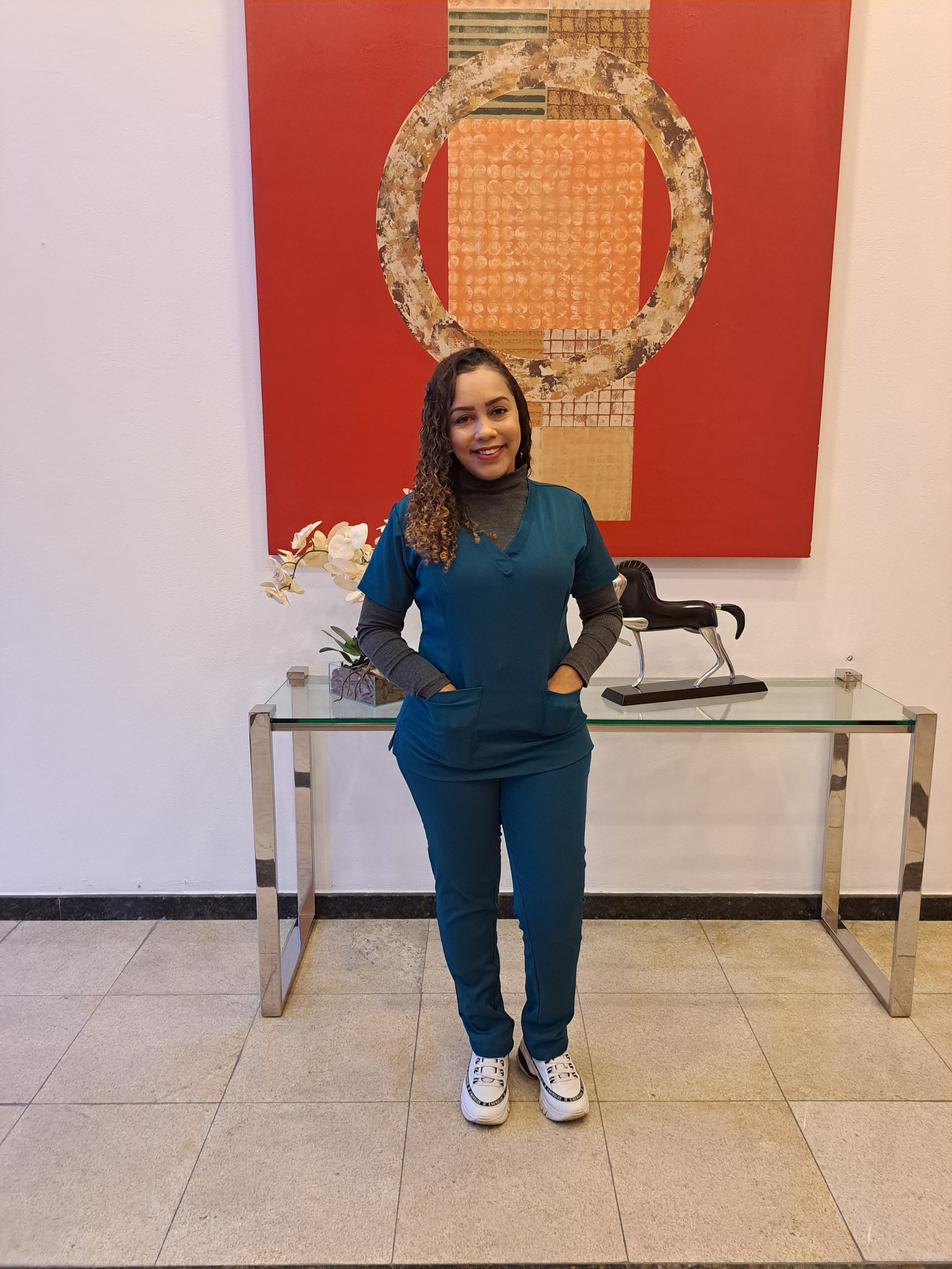
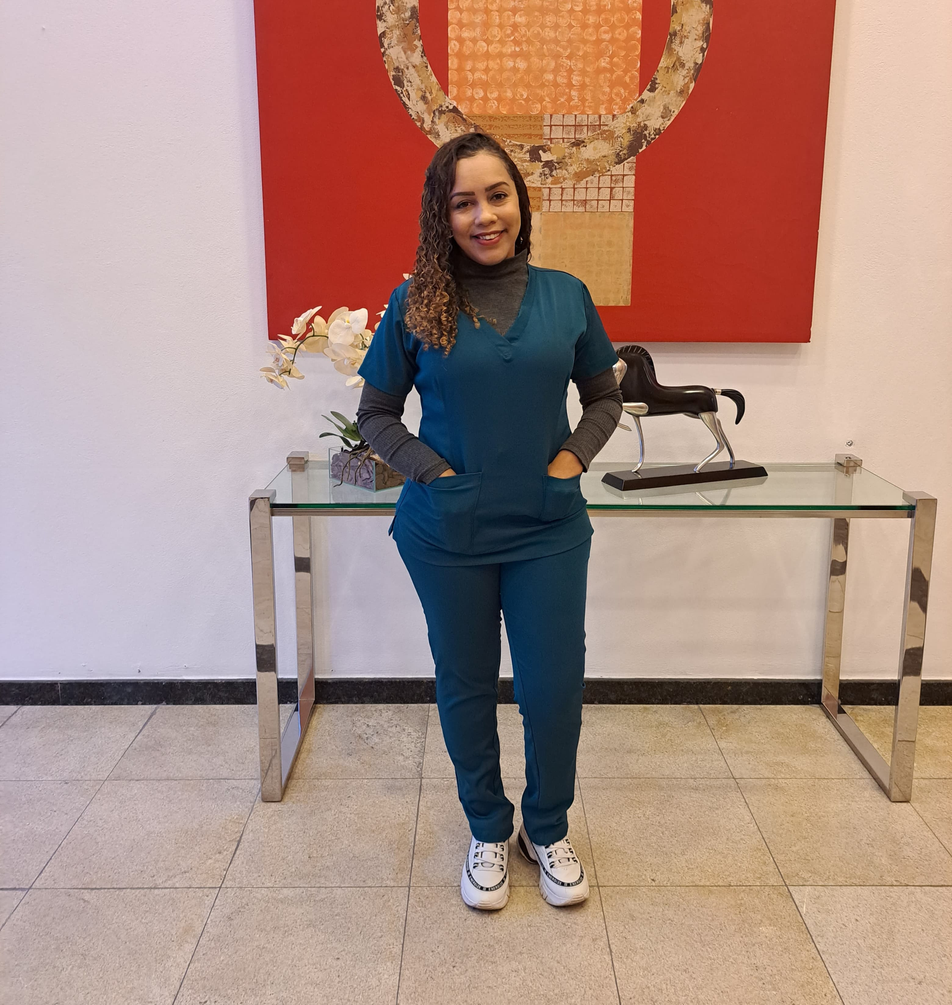
Wip

diff --git a/src/layouts/Default.vue b/src/layouts/Default.vue
@@ -60,11 +60,14 @@
     <!-- Whatsapp -->
     <a href="https://wa.me/5521989045832" target="_blank"
       class="btn btn-whatsapp position-fixed rounded-circle d-flex align-items-center justify-content-center shadow"
-      style="width: 64px; height: 64px; bottom: 16px; right: 16px; z-index: 100;">
-      <svg xmlns="http://www.w3.org/2000/svg" viewBox="0 0 512 512" class="" style="height: 32px; fill: currentColor;">
-        <path
-          d="m435.32 74.4c-47.886-48-111.66-74.4-179.43-74.4-139.89 0-253.72 113.83-253.72 253.71 0 44.686 11.657 88.343 33.83 126.86l-36.001 131.43 134.52-35.314c37.028 20.229 78.742 30.857 121.26 30.857h0.114c139.77 0 256.11-113.83 256.11-253.71 0-67.772-28.8-131.43-76.685-179.43zm-179.43 390.4c-37.943 0-75.086-10.171-107.43-29.371l-7.657-4.572-79.772 20.914 21.258-77.828-5.029-8c-21.142-33.6-32.229-72.343-32.229-112.23 0-116.23 94.629-210.86 210.97-210.86 56.343 0 109.26 21.943 149.03 61.829 39.771 39.885 64.228 92.8 64.114 149.14 0 116.34-97.029 210.97-213.26 210.97zm115.66-157.94c-6.285-3.199-37.486-18.514-43.315-20.571-5.828-2.172-10.057-3.2-14.286 3.2-4.228 6.4-16.342 20.571-20.114 24.914-3.656 4.229-7.428 4.8-13.714 1.6-37.257-18.628-61.714-33.257-86.285-75.429-6.515-11.199 6.514-10.4 18.628-34.628 2.057-4.229 1.028-7.885-0.571-11.085-1.601-3.201-14.286-34.4-19.543-47.087-5.143-12.342-10.4-10.628-14.286-10.857-3.657-0.228-7.885-0.228-12.114-0.228-4.228 0-11.086 1.599-16.914 7.885-5.829 6.401-22.172 21.715-22.172 52.915s22.743 61.371 25.829 65.6c3.2 4.228 44.686 68.228 108.34 95.771 40.228 17.372 55.999 18.857 76.114 15.886 12.228-1.829 37.486-15.314 42.743-30.171s5.257-27.544 3.657-30.172c-1.485-2.857-5.714-4.457-12-7.543z">
-        </path>
+      style="width: 64px; height: 64px; bottom: 16px; right: 16px; z-index: 100; margin: 10px">
+      <img loading="lazy"
+        src="https://cdn.prod.website-files.com/664bbef512e76790155e55fe/6672daa1913854e93f3fe1df_cta-whatsapp.gif"
+        alt="" class="gif-whats">
+      <!-- <svg xmlns="http://www.w3.org/2000/svg" viewBox="0 0 512 512" class="" style="height: 32px; fill: currentColor;"> -->
+      <path
+        d="m435.32 74.4c-47.886-48-111.66-74.4-179.43-74.4-139.89 0-253.72 113.83-253.72 253.71 0 44.686 11.657 88.343 33.83 126.86l-36.001 131.43 134.52-35.314c37.028 20.229 78.742 30.857 121.26 30.857h0.114c139.77 0 256.11-113.83 256.11-253.71 0-67.772-28.8-131.43-76.685-179.43zm-179.43 390.4c-37.943 0-75.086-10.171-107.43-29.371l-7.657-4.572-79.772 20.914 21.258-77.828-5.029-8c-21.142-33.6-32.229-72.343-32.229-112.23 0-116.23 94.629-210.86 210.97-210.86 56.343 0 109.26 21.943 149.03 61.829 39.771 39.885 64.228 92.8 64.114 149.14 0 116.34-97.029 210.97-213.26 210.97zm115.66-157.94c-6.285-3.199-37.486-18.514-43.315-20.571-5.828-2.172-10.057-3.2-14.286 3.2-4.228 6.4-16.342 20.571-20.114 24.914-3.656 4.229-7.428 4.8-13.714 1.6-37.257-18.628-61.714-33.257-86.285-75.429-6.515-11.199 6.514-10.4 18.628-34.628 2.057-4.229 1.028-7.885-0.571-11.085-1.601-3.201-14.286-34.4-19.543-47.087-5.143-12.342-10.4-10.628-14.286-10.857-3.657-0.228-7.885-0.228-12.114-0.228-4.228 0-11.086 1.599-16.914 7.885-5.829 6.401-22.172 21.715-22.172 52.915s22.743 61.371 25.829 65.6c3.2 4.228 44.686 68.228 108.34 95.771 40.228 17.372 55.999 18.857 76.114 15.886 12.228-1.829 37.486-15.314 42.743-30.171s5.257-27.544 3.657-30.172c-1.485-2.857-5.714-4.457-12-7.543z">
+      </path>
       </svg>
     </a>
   </div>
@@ -80,10 +83,11 @@ query {
 
 <style>
 body {
-  font-family: -apple-system, system-ui, BlinkMacSystemFont, "Segoe UI", Roboto, "Helvetica Neue", Arial, sans-serif;
+  font-family: Uncutsans, sans-serif;
   margin: 0;
   padding: 0;
   line-height: 1.5;
+  color: #003E30;
 }
 
 .layout {
@@ -94,7 +98,7 @@ body {
 }
 
 strong {
-  font-size: 18px;
+  /* font-size: 18px; */
   font-family: system-ui, -apple-system, BlinkMacSystemFont, 'Segoe UI', Roboto, Oxygen, Ubuntu, Cantarell, 'Open Sans', 'Helvetica Neue', sans-serif;
 }
 

diff --git a/src/pages/Sobre.vue b/src/pages/Sobre.vue
@@ -2,18 +2,17 @@
   <Layout>
     <section>
       <div class="row align-items-center justify-content-center justify-content-xl-between" id="row">
-        <div class="col-lg-6" id="foto">
-          <h3><strong>Dayana Silva</strong></h3>
-          <h6>Fisioterapeuta</h6>
-          <g-image class="rounded-circle" alt="Example image" src="~/assets/dayana.jpeg" width="300"/>
+        <div class="col-sm-6" id="foto">
+          <g-image class="mx-auto d-block img-fluid p-8" alt="Example image" src="~/assets/dayana.jpeg"/>
         </div>
-        <div class="col-lg-6" style="padding: 10%; font-size: 16px;">
+        <div class="col-sm-6" style="padding: 10%; font-size: 16px;">
+          <h2>Dayana Silva</h2>
           <p>
-            Graduada em fisioterapia em 2014, pela universidade de Barra Mansa (UBM)
-          e pós-graduada em fisioterapia intensiva em neonatologia e pediatria pela universidade Celso Lisboa.
-          Tenho cursos de extensão na área respiratória em adulto. Instrutora de pilates.
-          Atualmente trabalho no programa melhor em casa do governo federal e plantonista no pré-hospitalar e UPA na
-          cidade de Seropédica.
+            Graduada em fisioterapia na universidade de Barra Mansa (UBM)
+          e pós-graduada em fisioterapia intensiva em neonatologia e pediatria na universidade Celso Lisboa. 
+          Possui cursos de extensão na área de fisioterapia respiratória em adultos. É também instrutora de pilates. </p>
+          <p>Atualmente trabalha no programa melhor em casa do governo federal e é plantonista no pré-hospitalar e UPA na
+          cidade de Seropédica-RJ.
           </p>
           <h3>"O esforço é único fator do qual temos pleno controle."</h3>
         </div>
